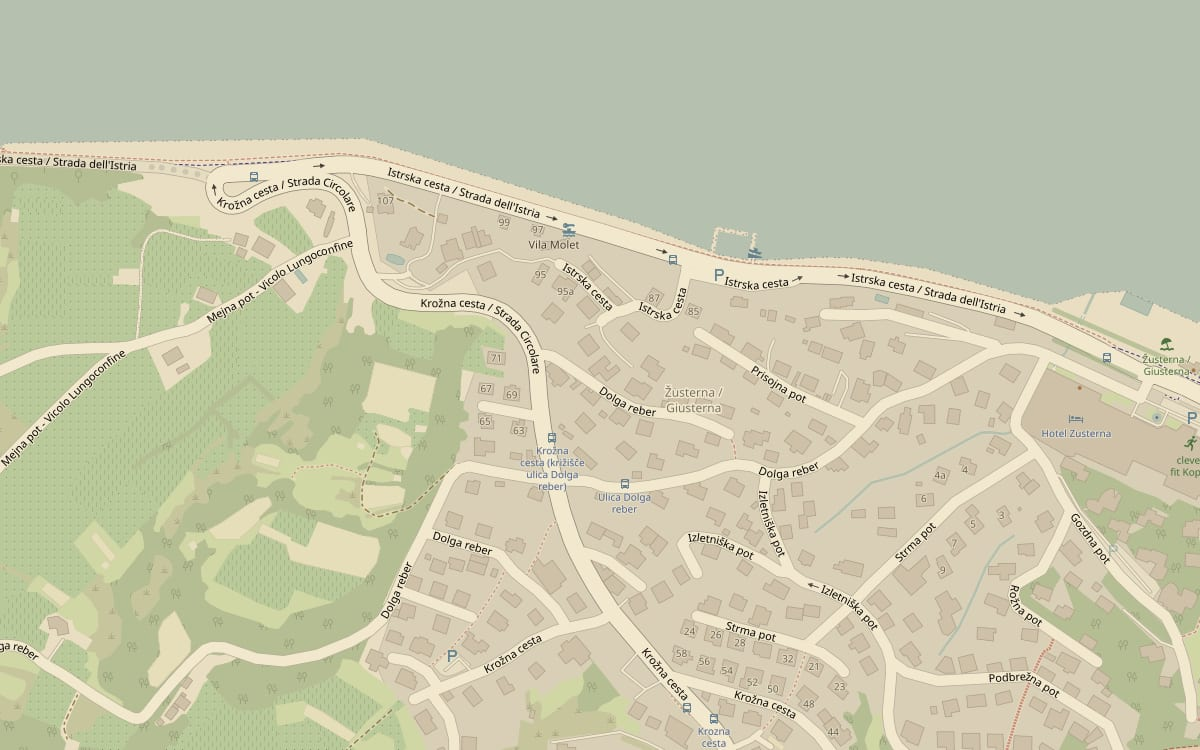
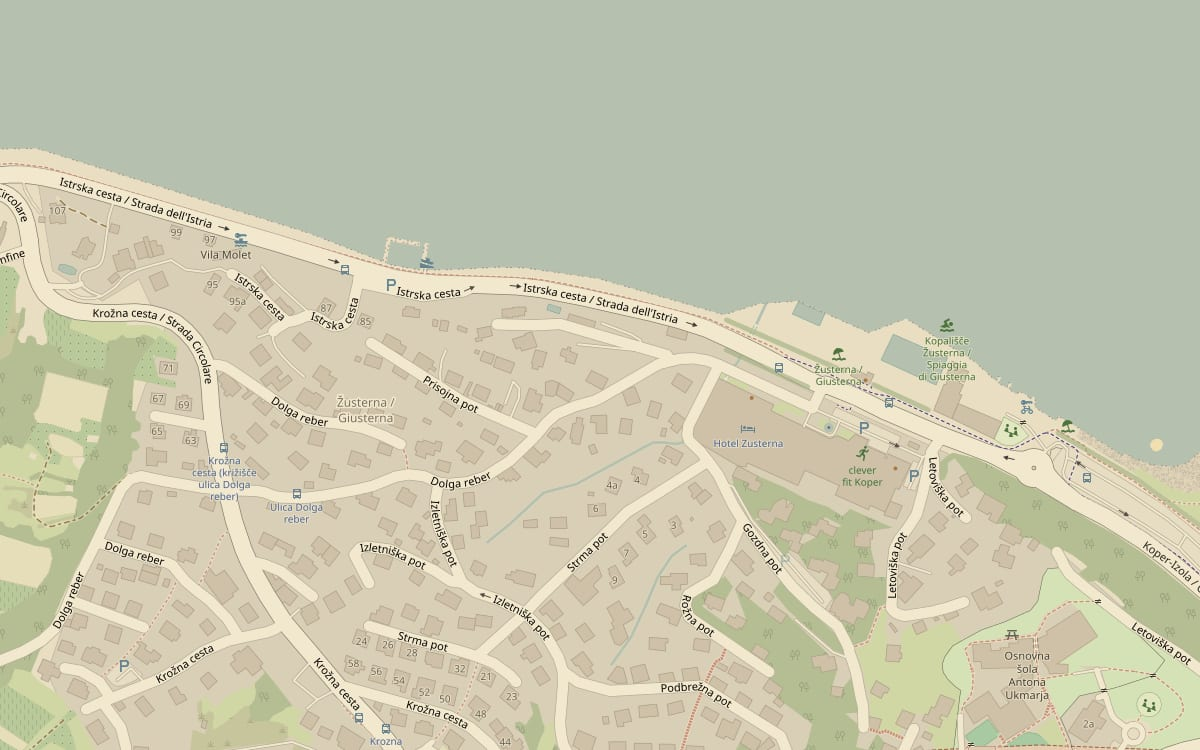
Contact map: pin on the house as Google Maps shows it
Pin and map picture now centred on 45.546372, 13.7072177 (Dolga reber 4
according to Google Maps); the earlier estimate was about 270 m too far west.

diff --git a/src/i18n.ts b/src/i18n.ts
@@ -56,9 +56,9 @@ export const CONTACT = {
   // clicking the map opens Google Maps with the address (Google finds the exact house)
   mapUrl: 'https://www.google.com/maps/search/?api=1&query=Dolga+reber+4%2C+6000+Koper%2C+Slovenia',
   // map picture made from OpenStreetMap: its centre, zoom level and size in pixels
-  map: { image: '/images/map/dolga-reber.jpg', lat: 45.5463, lon: 13.7037, zoom: 17, width: 1200, height: 750 },
-  // position of the pin on the map; ESTIMATED from the old site's map, move it if the house is elsewhere
-  pin: { lat: 45.5463, lon: 13.7037 },
+  map: { image: '/images/map/dolga-reber.jpg', lat: 45.546372, lon: 13.7072177, zoom: 17, width: 1200, height: 750 },
+  // position of the pin on the map (Dolga reber 4 as Google Maps shows it)
+  pin: { lat: 45.546372, lon: 13.7072177 },
 };
 
 export function localePrefix(locale: Locale): string {

diff --git a/README.md b/README.md
@@ -56,9 +56,10 @@ background close to `#ebe3cc` – or change `--photo-bg` to match the new backgr
 
 `public/images/map/dolga-reber.jpg` is a picture made from OpenStreetMap (the credit under the
 map is required by its licence). Clicking it opens Google Maps with the address, so navigation
-always finds the exact house. The **pin position is an estimate** (OpenStreetMap has no house
-numbers for Dolga reber). To move it, change `CONTACT.pin` (latitude, longitude) in
-`src/i18n.ts`; the picture itself doesn't need to change as long as the spot is inside it.
+always finds the exact house. The pin uses the coordinates Google Maps gives for Dolga reber 4
+(OpenStreetMap has no house numbers there). To move it, change `CONTACT.pin` (latitude,
+longitude) in `src/i18n.ts`; the picture is centred on the house, and only needs to be made
+again if the pin moves far away.
 
 ## Still to do
 
